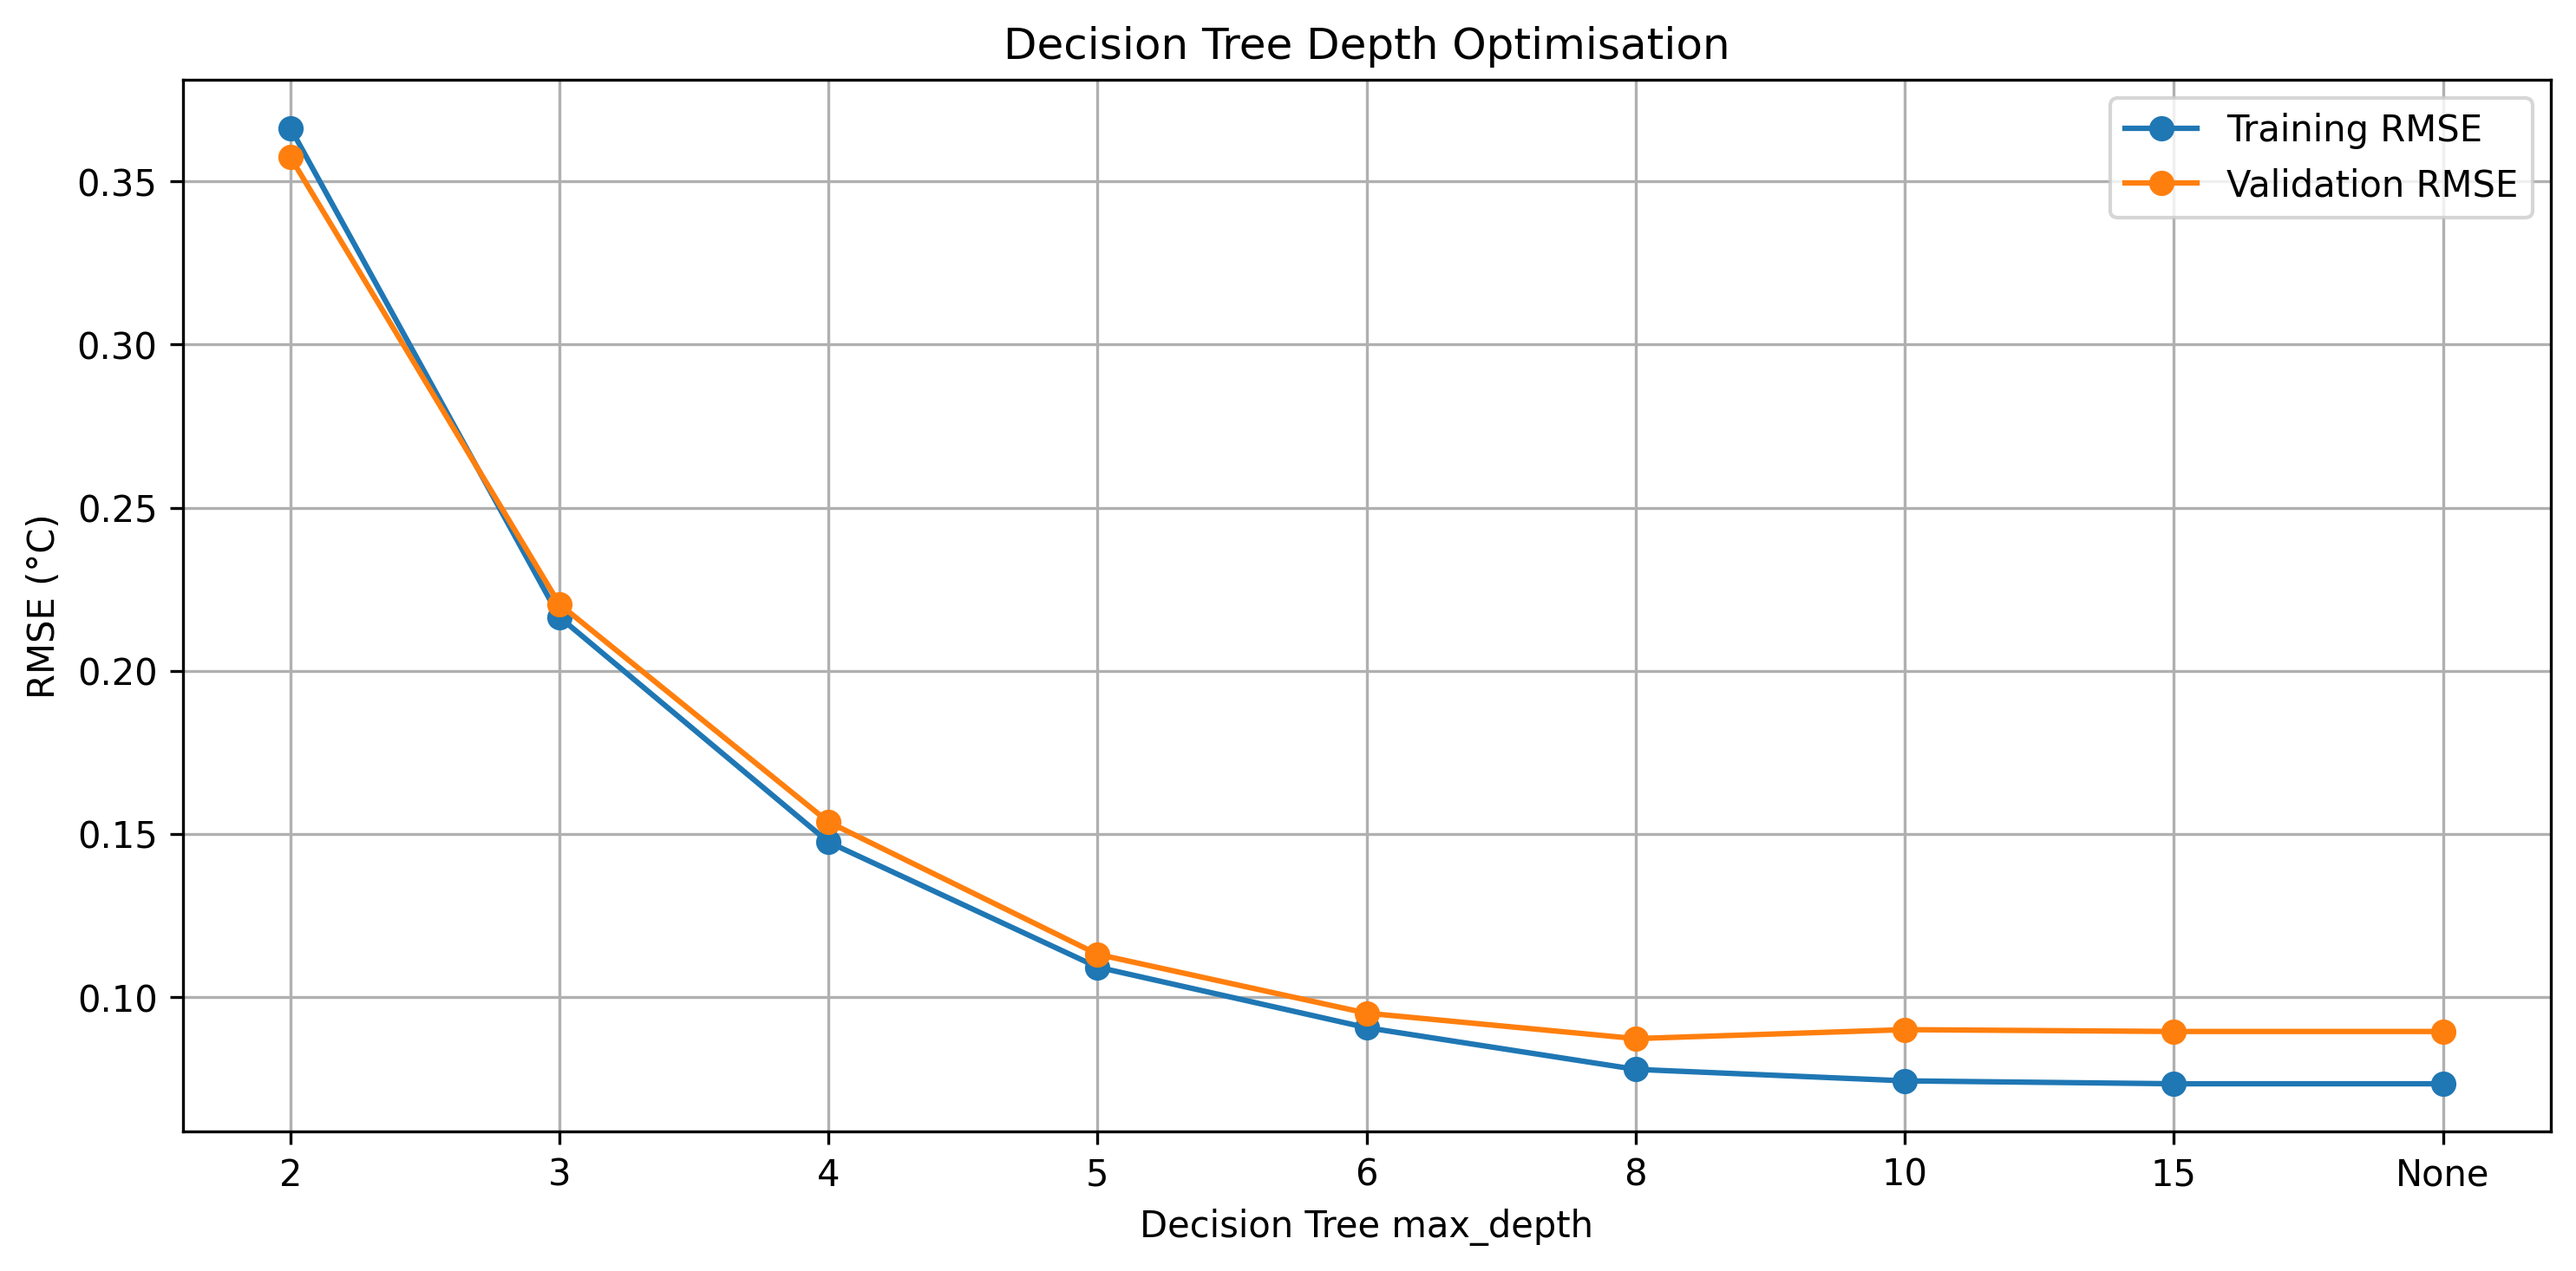
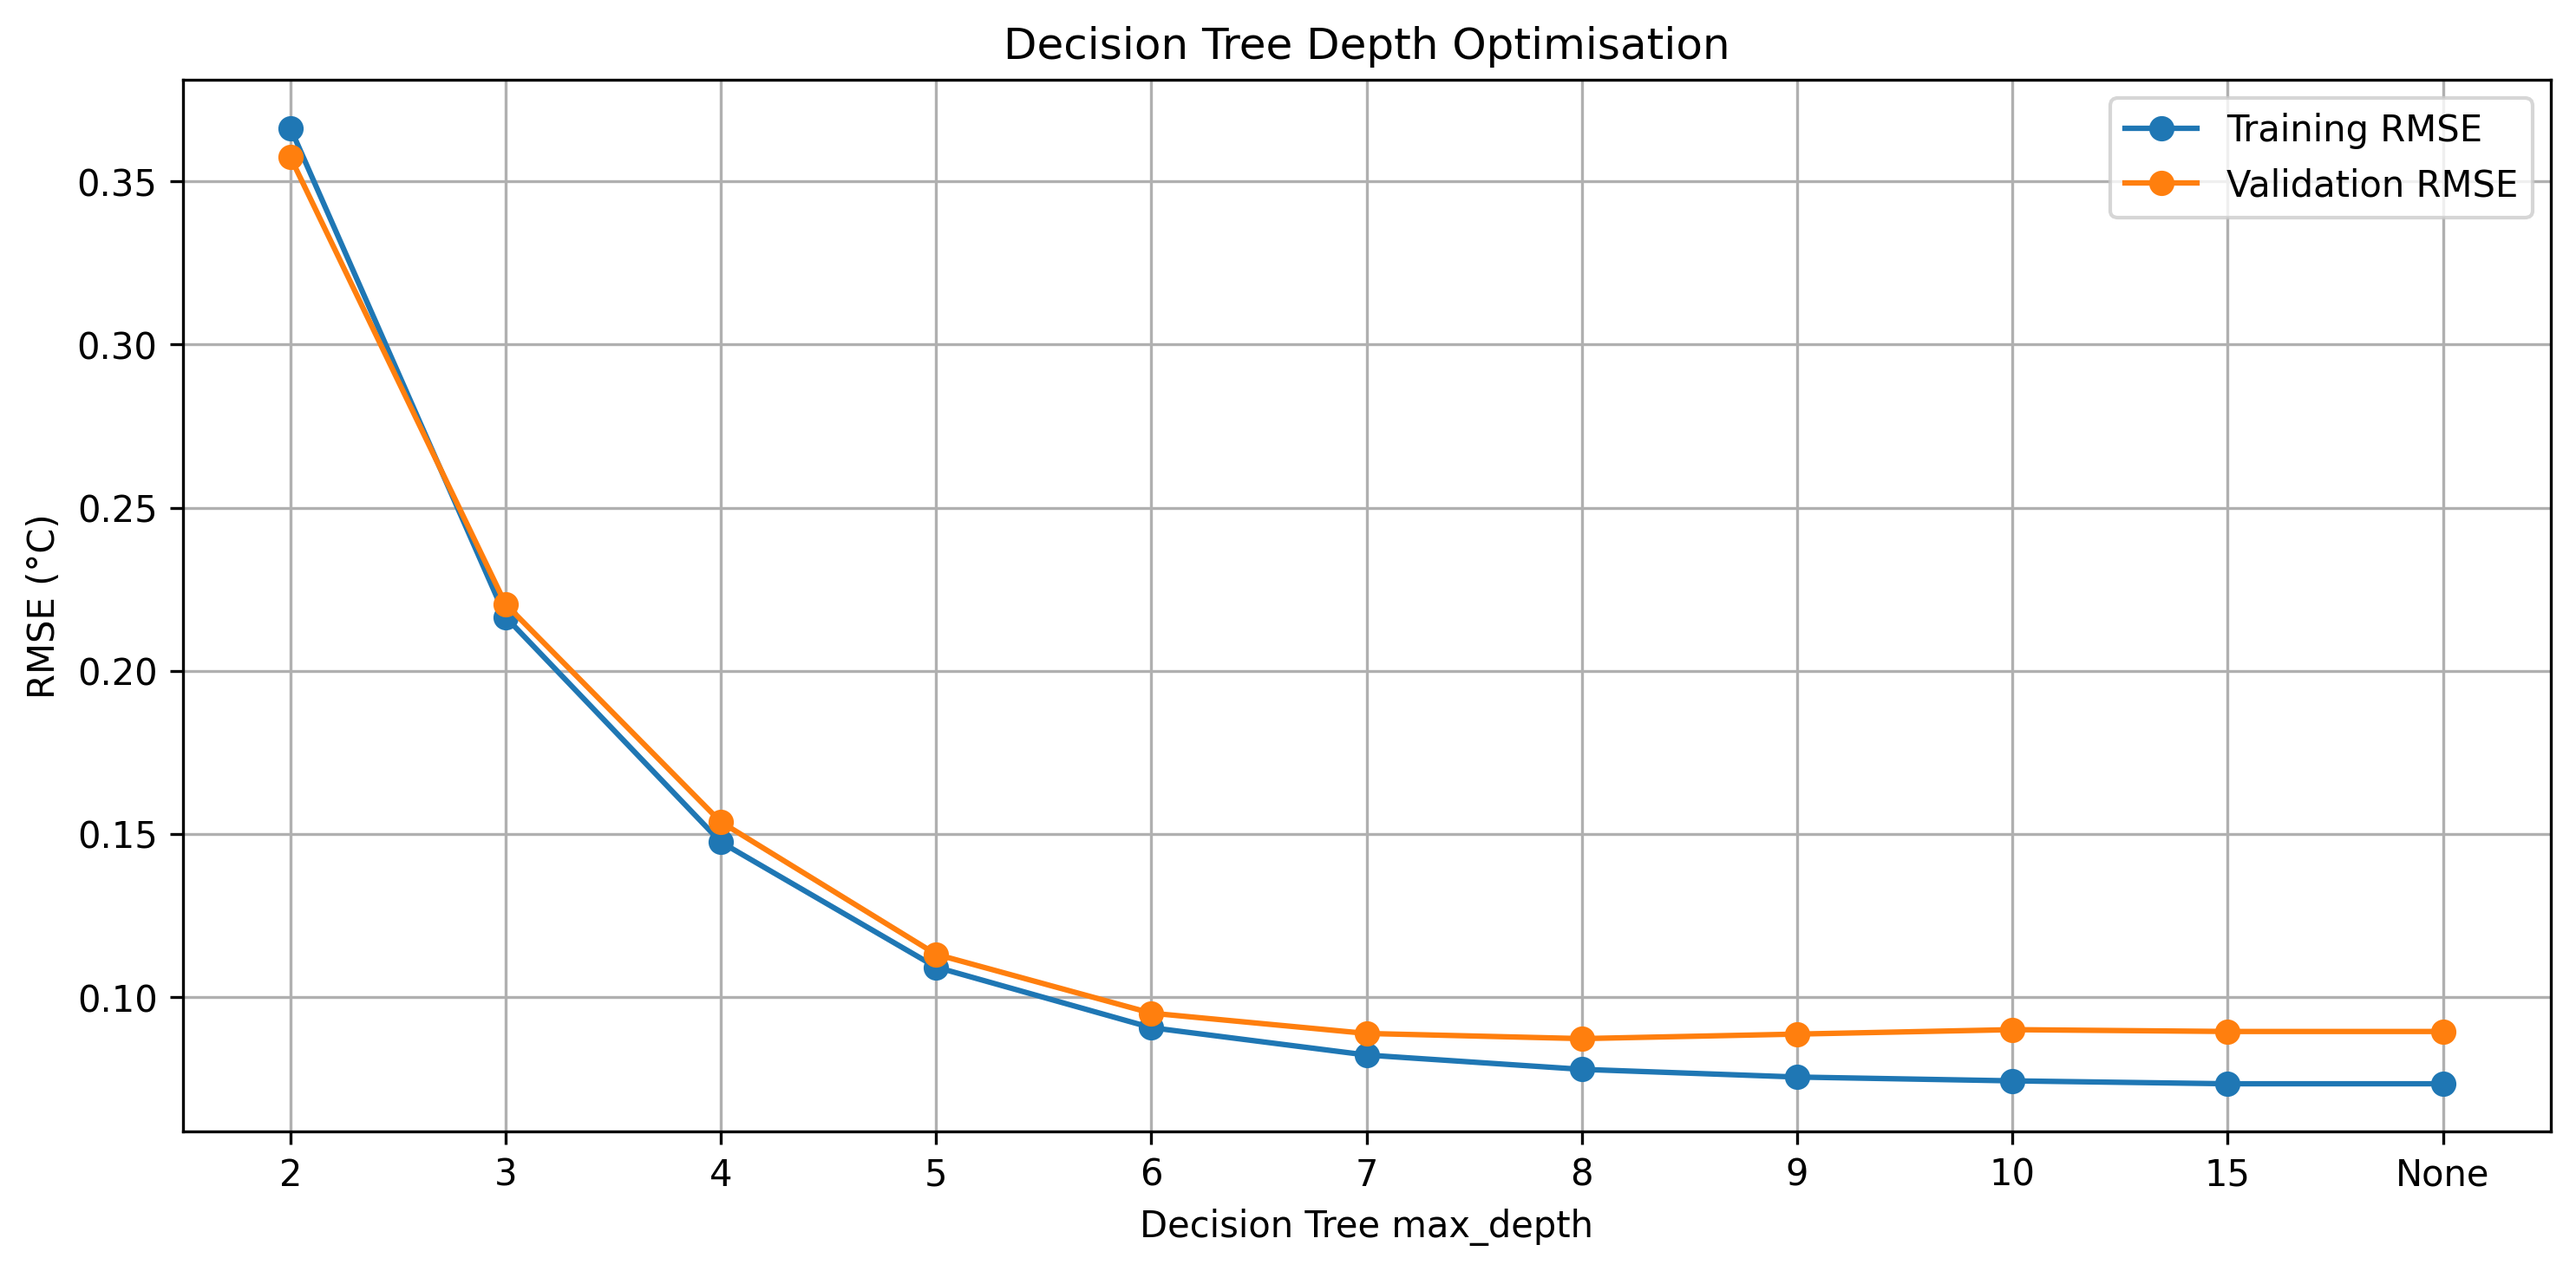
Add max_depth 7 and 9 to the depth search

diff --git a/src/decision_tree_optimisation.py b/src/decision_tree_optimisation.py
@@ -226,7 +226,9 @@ def main():
         4,
         5,
         6,
+        7,
         8,
+        9,
         10,
         15,
         None
